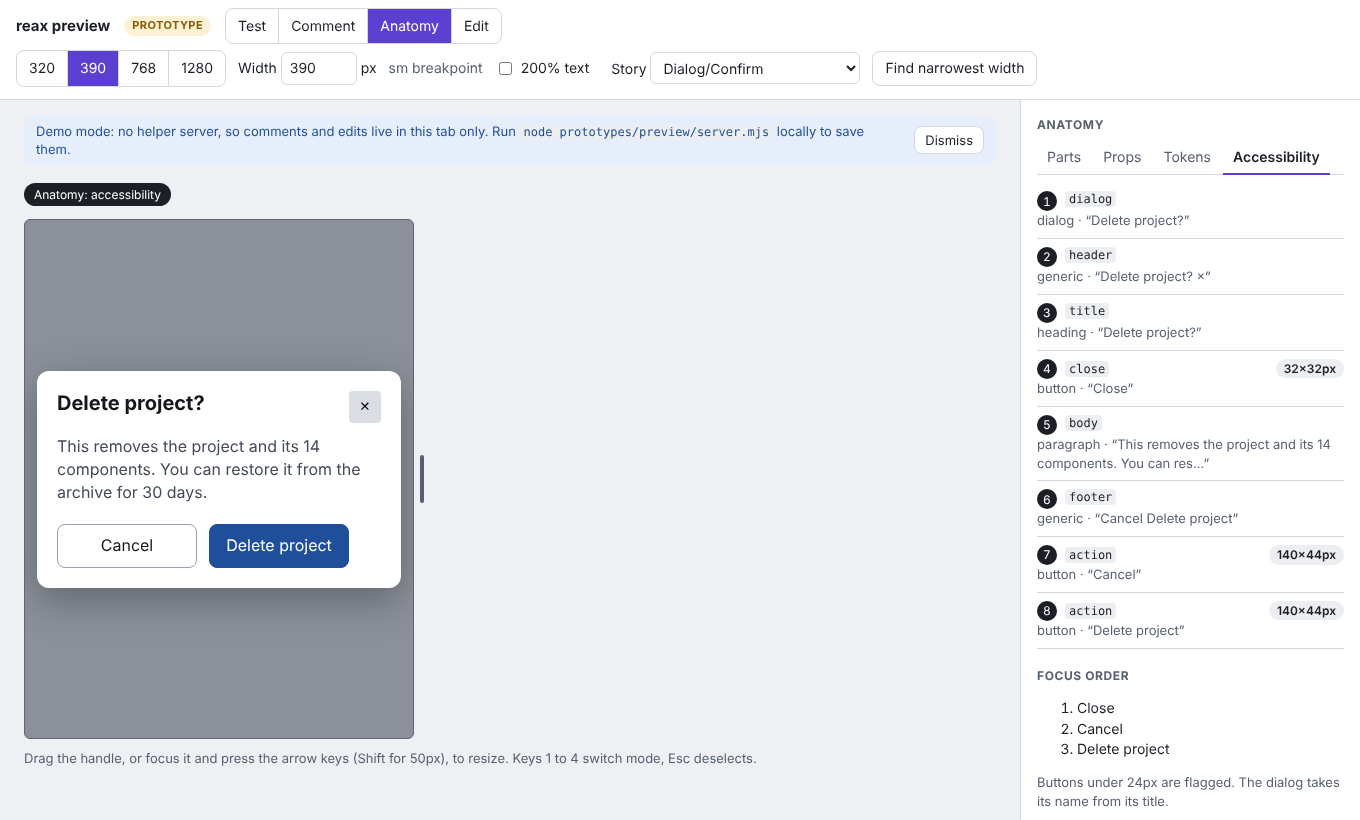
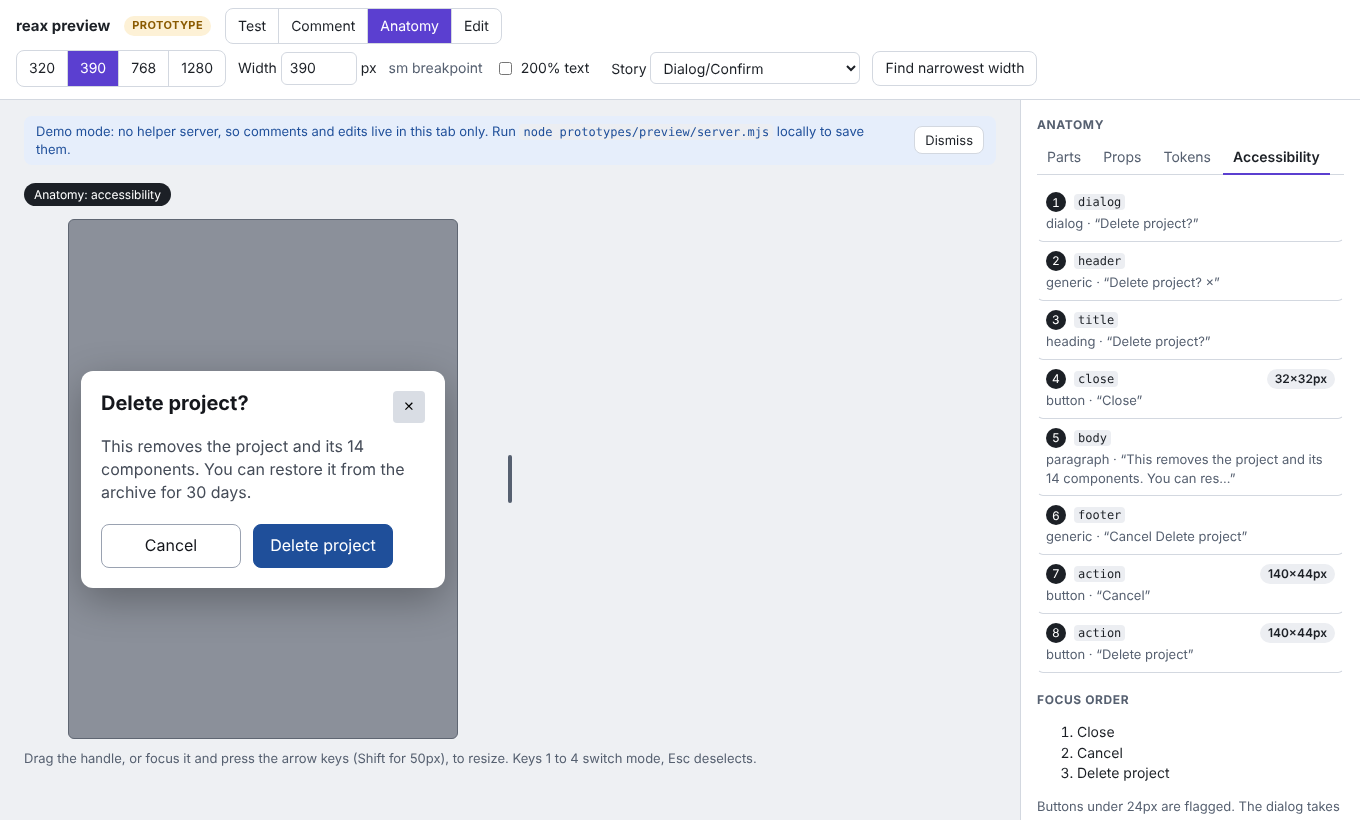
Anatomy: selected part card above the tabs, clickable and hover-linked rows, clickable numbers, constant margin
Selection stays in step across Parts, Props, Tokens and Accessibility, from
the list, the frame and the numbers. Throwaway. Not for main.

Claude-Session: https://claude.ai/code/session_01TSbSN6EG7Lo2rTLd5KhhbY

diff --git a/prototypes/preview/index.html b/prototypes/preview/index.html
@@ -75,7 +75,7 @@
   #overlay { position:absolute; inset:0; pointer-events:none; }
   #hl { position:absolute; display:none; border:2px dashed var(--accent); background:var(--accent-wash); z-index:3; }
   #sel { position:absolute; display:none; border:2px solid var(--accent); z-index:4; }
-  .badge { position:absolute; min-width:20px; height:20px; padding:0 5px; border-radius:10px; background:var(--ui-ink); color:#fff; font-size:12px; display:grid; place-items:center; transform:translate(-50%,-50%); z-index:5; font-variant-numeric:tabular-nums; }
+  .badge { pointer-events:auto; cursor:pointer; position:absolute; min-width:20px; height:20px; padding:0 5px; border-radius:10px; background:var(--ui-ink); color:#fff; font-size:12px; display:grid; place-items:center; transform:translate(-50%,-50%); z-index:5; font-variant-numeric:tabular-nums; }
   .pin { position:absolute; min-width:22px; height:22px; border-radius:50%; background:var(--accent); color:#fff; font-size:12px; display:grid; place-items:center; transform:translate(-50%,-50%); box-shadow:0 1px 4px rgba(0,0,0,.35); z-index:6; border:2px solid #fff; }
   .pin.addressed { background:var(--warn); }
   .pin.resolved { background:#fff; color:var(--ok); border-color:var(--ok); }
@@ -114,6 +114,13 @@
   .tag.bad { background:var(--bad-wash); color:var(--bad); }
   .num { display:inline-grid; place-items:center; min-width:20px; height:20px; border-radius:10px; background:var(--ui-ink); color:#fff; font-size:12px; font-variant-numeric:tabular-nums; align-self:center; }
   .val { margin-top:4px; }
+  .badge.hot { outline:3px solid var(--accent); outline-offset:2px; }
+  /* a part row is a button, with a full border and a tint when selected */
+  .list .item-btn { display:block; width:100%; text-align:left; font:inherit; color:inherit; background:none; cursor:pointer; border:1px solid transparent; border-bottom-color:var(--ui-line); border-radius:6px; padding:8px; }
+  .list .item-btn:hover, .list .item-btn:focus-visible { background:var(--ui-wash); }
+  .list .item-btn.sel { background:var(--accent-wash); border-color:var(--accent); }
+  .item-btn .item-h { display:flex; flex-wrap:wrap; gap:4px 8px; align-items:center; }
+  .item-btn .note { display:block; margin-top:2px; }
   .banner .short { display:none; }
 
   /* the component under test: Dialog / Confirm */
@@ -378,7 +385,9 @@ function drawOverlay() {
       const line = document.createElementNS(NS, 'polyline'); line.setAttribute('points', `${ex},${by} ${cx},${by} ${cx},${it.ay} ${it.ax},${it.ay}`); line.setAttribute('data-n', it.n);
       Object.entries({ fill: 'none', stroke: '#1c2026', 'stroke-width': '1.5', 'stroke-dasharray': '2 4', 'stroke-linecap': 'round', 'stroke-linejoin': 'round' }).forEach(([k, v]) => line.setAttribute(k, v)); svg.appendChild(line);
       const dot = document.createElementNS(NS, 'circle'); dot.setAttribute('cx', it.ax); dot.setAttribute('cy', it.ay); dot.setAttribute('r', 3); dot.setAttribute('fill', '#1c2026'); svg.appendChild(dot);
-      const b = document.createElement('div'); b.className = 'badge'; b.textContent = it.n; b.style.left = bx + 'px'; b.style.top = by + 'px'; badges.appendChild(b);
+      const b = document.createElement('div'); b.className = 'badge'; b.dataset.n = it.n; b.textContent = it.n; b.style.left = bx + 'px'; b.style.top = by + 'px';
+      b.onmouseenter = () => hotPart(it.n - 1, true); b.onmouseleave = () => hotPart(it.n - 1, false); b.onclick = () => togglePart(it.n - 1); /* a number on the frame selects its part too */
+      badges.appendChild(b);
     });
     badges.prepend(svg);
   }
@@ -398,7 +407,7 @@ function toggleOriginal() {
 function discardDraft() { const keep = state.selected && selectorOf(state.selected); stage.innerHTML = state.original; state.draft = []; state.viewingOriginal = false; state.selected = keep ? resolve(keep) : null; drawOverlay(); updateStageTop(); renderPanel(); announce('Draft discarded'); }
 
 /* ---------- toolbar and controls ---------- */
-function syncModeClasses() { const parts = state.mode === 'anatomy' && state.view === 'parts'; frame.classList.toggle('parts', parts); $('#fw').classList.toggle('gutter', parts); fit(); }
+function syncModeClasses() { const parts = state.mode === 'anatomy' && state.view === 'parts'; frame.classList.toggle('parts', parts); $('#fw').classList.toggle('gutter', state.mode === 'anatomy'); /* the margin stays in every Anatomy view so the frame never jumps */ fit(); }
 function setMode(m) { state.mode = m; if (m === 'test') state.selected = null; hl.style.display = 'none'; syncModeClasses(); updateToolbar(); updateStageTop(); drawOverlay(); renderPanel(); announce(MODE_LABEL[m] + ' mode'); }
 $$('#modes button').forEach((b) => b.addEventListener('click', () => setMode(b.dataset.mode)));
 $$('#presets button').forEach((b) => b.addEventListener('click', () => setWidth(Number(b.dataset.w))));
@@ -436,6 +445,14 @@ stage.addEventListener('click', (e) => {
 }, true);
 function select(el) { state.selected = el; drawOverlay(); renderPanel(); openSheet(true); announce(`Selected ${el.dataset.slot}, ${roleOf(el)}`); }
 function deselect() { state.selected = null; hl.style.display = 'none'; drawOverlay(); renderPanel(); }
+function togglePart(i) { const el = $$('[data-slot]', stage)[i]; if (!el) return; if (state.selected === el) deselect(); else select(el); }
+/* light up one part: its number, its leader and its place on the frame */
+function hotPart(i, on) {
+  const el = $$('[data-slot]', stage)[i]; if (!el) return;
+  $$(`.badge[data-n="${i + 1}"]`).forEach((b) => b.classList.toggle('hot', on));
+  $$(`#badges polyline[data-n="${i + 1}"]`).forEach((l) => { l.setAttribute('stroke', on ? '#5b3fd0' : '#1c2026'); l.setAttribute('stroke-width', on ? '2.5' : '1.5'); });
+  if (on) place(hl, el); else hl.style.display = 'none';
+}
 function openSheet(open) { rail.classList.toggle('open', open); $('#sheetBar').setAttribute('aria-expanded', String(open)); }
 $('#sheetBar').addEventListener('click', () => openSheet(!rail.classList.contains('open')));
 document.addEventListener('keydown', (e) => {
@@ -489,7 +506,7 @@ function renderPanel() {
   if (state.mode === 'edit') h += editPanel();
   h += sweepPanel() + viewportsPanel() + (state.mode === 'comment' ? '' : '') + commentList();
   panel.innerHTML = h; bindPanel(); bindDraft(); $('#sheetTitle').textContent = sheetTitle();
-  rail.classList.toggle('compact', state.mode === 'anatomy' && state.view === 'parts');
+  rail.classList.toggle('compact', state.mode === 'anatomy');
 }
 function selectedCard() {
   const el = state.selected; if (!el) return '';
@@ -523,12 +540,14 @@ function commentPanel() {
 }
 function anatomyPanel() {
   const tabs = ['parts', 'props', 'tokens', 'accessibility'];
-  let h = `<h3>Anatomy</h3><div class="tabs" id="views" role="tablist" aria-label="Anatomy view">${tabs.map((t) => `<button type="button" role="tab" data-view="${t}" aria-selected="${state.view === t}">${t[0].toUpperCase() + t.slice(1)}</button>`).join('')}</div>`;
-  const slots = $$('[data-slot]', stage);
-  if (state.view === 'parts') h += `<p class="note">Numbers on the frame match this list.</p><table><tr><th>#</th><th>slot</th><th>element</th><th>role</th></tr>${slots.map((e, i) => `<tr><td>${i + 1}</td><td><code>${e.dataset.slot}</code>${isTarget(e) || e.tagName === 'H2' ? `<div class="note">“${esc(nameOf(e))}”</div>` : ''}</td><td>${e.tagName.toLowerCase()}</td><td>${roleOf(e)}</td></tr>`).join('')}</table>`;
+  let h = `<h3>Anatomy</h3>${selectedCard()}<div class="tabs" id="views" role="tablist" aria-label="Anatomy view">${tabs.map((t) => `<button type="button" role="tab" data-view="${t}" aria-selected="${state.view === t}">${t[0].toUpperCase() + t.slice(1)}</button>`).join('')}</div>`;
+  const slots = $$('[data-slot]', stage); const selIdx = state.selected ? slots.indexOf(state.selected) : -1;
+  /* a row is a button: it selects the part, and hovering or focusing it lights up the part on the frame */
+  const row = (e, i, note, tag) => `<button type="button" class="item item-btn${i === selIdx ? ' sel' : ''}" data-part="${i}" aria-pressed="${i === selIdx}"><span class="item-h"><span class="num">${i + 1}</span><code>${e.dataset.slot}</code>${tag || ''}</span><span class="note">${note}</span></button>`;
+  if (state.view === 'parts') h += `<p class="note">Select a part here or on the frame. Numbers match the frame.</p><div class="list">${slots.map((e, i) => row(e, i, `${e.tagName.toLowerCase()} · ${roleOf(e)}${isTarget(e) || e.tagName === 'H2' ? ` · “${esc(nameOf(e))}”` : ''}`)).join('')}</div>`;
   if (state.view === 'props') { const rows = [['open', 'boolean', 'true'], ['title', 'ReactNode (required)', JSON.stringify($('[data-slot="title"]', stage).textContent)], ['description', 'ReactNode', JSON.stringify($('[data-slot="body"]', stage).textContent)], ['role', "'dialog' | 'alertdialog'", "'dialog'"], ['size', "'sm' | 'md' | 'lg' | 'fullscreen'", "'md'"], ['dismissOnOutsideClick', 'boolean', 'false'], ['showCloseButton', 'boolean', 'true']]; h += `<p class="note">Story: ${state.story}. Types and JSDoc come from the component source.</p><div class="list">${rows.map((r) => `<div class="item"><div class="item-h"><code>${r[0]}</code><span class="note">${esc(r[1])}</span></div><div class="val"><code>${esc(r[2])}</code></div></div>`).join('')}</div>`; }
-  if (state.view === 'tokens') { const el = state.selected || $('[data-slot="dialog"]', stage); h += (state.selected ? selectedCard() : '<p class="note">Showing the dialog. Click an element to inspect another.</p>') + `<table><tr><th>property</th><th>token</th></tr>${['padding', 'borderRadius', 'fontSize', 'color', 'backgroundColor', 'height'].map((k) => `<tr><td>${FIELDS[k].label}</td><td><code>${esc(currentToken(el, FIELDS[k]))}</code></td></tr>`).join('')}</table>`; }
-  if (state.view === 'accessibility') { const focus = $$('button,[tabindex]', stage); h += `<div class="list">${slots.map((e, i) => { const [w, hh] = sizeOf(e); const bad = isTarget(e) && (w < FLOOR || hh < FLOOR); return `<div class="item"><div class="item-h"><span class="num">${i + 1}</span><code>${e.dataset.slot}</code>${isTarget(e) ? `<span class="tag${bad ? ' bad' : ''}">${w}×${hh}px${bad ? ' too small' : ''}</span>` : ''}</div><div class="note">${roleOf(e)}${nameOf(e) ? ` · “${esc(nameOf(e))}”` : ' · <em>no accessible name</em>'}</div></div>`; }).join('')}</div><h3>Focus order</h3><ol>${focus.map((f) => `<li>${esc(nameOf(f))}</li>`).join('')}</ol><p class="note">Buttons under ${FLOOR}px are flagged. The dialog takes its name from its title.</p>`; }
+  if (state.view === 'tokens') { const el = state.selected || $('[data-slot="dialog"]', stage); h += (state.selected ? '' : '<p class="note">Showing the dialog. Select a part on the frame, or in Parts, to inspect another.</p>') + `<table><tr><th>property</th><th>token</th></tr>${['padding', 'borderRadius', 'fontSize', 'color', 'backgroundColor', 'height'].map((k) => `<tr><td>${FIELDS[k].label}</td><td><code>${esc(currentToken(el, FIELDS[k]))}</code></td></tr>`).join('')}</table>`; }
+  if (state.view === 'accessibility') { const focus = $$('button,[tabindex]', stage); h += `<div class="list">${slots.map((e, i) => { const [w, hh] = sizeOf(e); const bad = isTarget(e) && (w < FLOOR || hh < FLOOR); return row(e, i, `${roleOf(e)}${nameOf(e) ? ` · “${esc(nameOf(e))}”` : ' · <em>no accessible name</em>'}`, isTarget(e) ? `<span class="tag${bad ? ' bad' : ''}">${w}×${hh}px${bad ? ' too small' : ''}</span>` : ''); }).join('')}</div><h3>Focus order</h3><ol>${focus.map((f) => `<li>${esc(nameOf(f))}</li>`).join('')}</ol><p class="note">Buttons under ${FLOOR}px are flagged. The dialog takes its name from its title.</p>`; }
   return h;
 }
 function editPanel() {
@@ -570,6 +589,11 @@ function bindPanel() {
   $$('[data-remove]').forEach((b) => (b.onclick = () => removeComment(b.dataset.remove)));
   $$('.comment[data-id]').forEach((c) => { const on = (v) => () => { const p = $(`.pin[data-id="${c.dataset.id}"]`); if (p) p.classList.toggle('hot', v); }; c.onmouseenter = on(true); c.onmouseleave = on(false); });
   const d = $('#desel'); if (d) d.onclick = deselect;
+  $$('[data-part]').forEach((b) => {
+    const i = Number(b.dataset.part);
+    b.onclick = () => { const el = $$('[data-slot]', stage)[i]; if (state.selected === el) deselect(); else select(el); const nb = $(`[data-part="${i}"]`); if (nb) nb.focus(); }; /* the panel re-renders: keep the keyboard on the same row */
+    b.onmouseenter = b.onfocus = () => hotPart(i, true); b.onmouseleave = b.onblur = () => hotPart(i, false);
+  });
   const cs = $('#csave'), cd = $('#csend');
   if (cs) cs.onclick = () => { const t = $('#ctext').value.trim(); if (t) saveComment(t, false); };
   if (cd) cd.onclick = () => { const t = $('#ctext').value.trim(); if (t) saveComment(t, true); };
